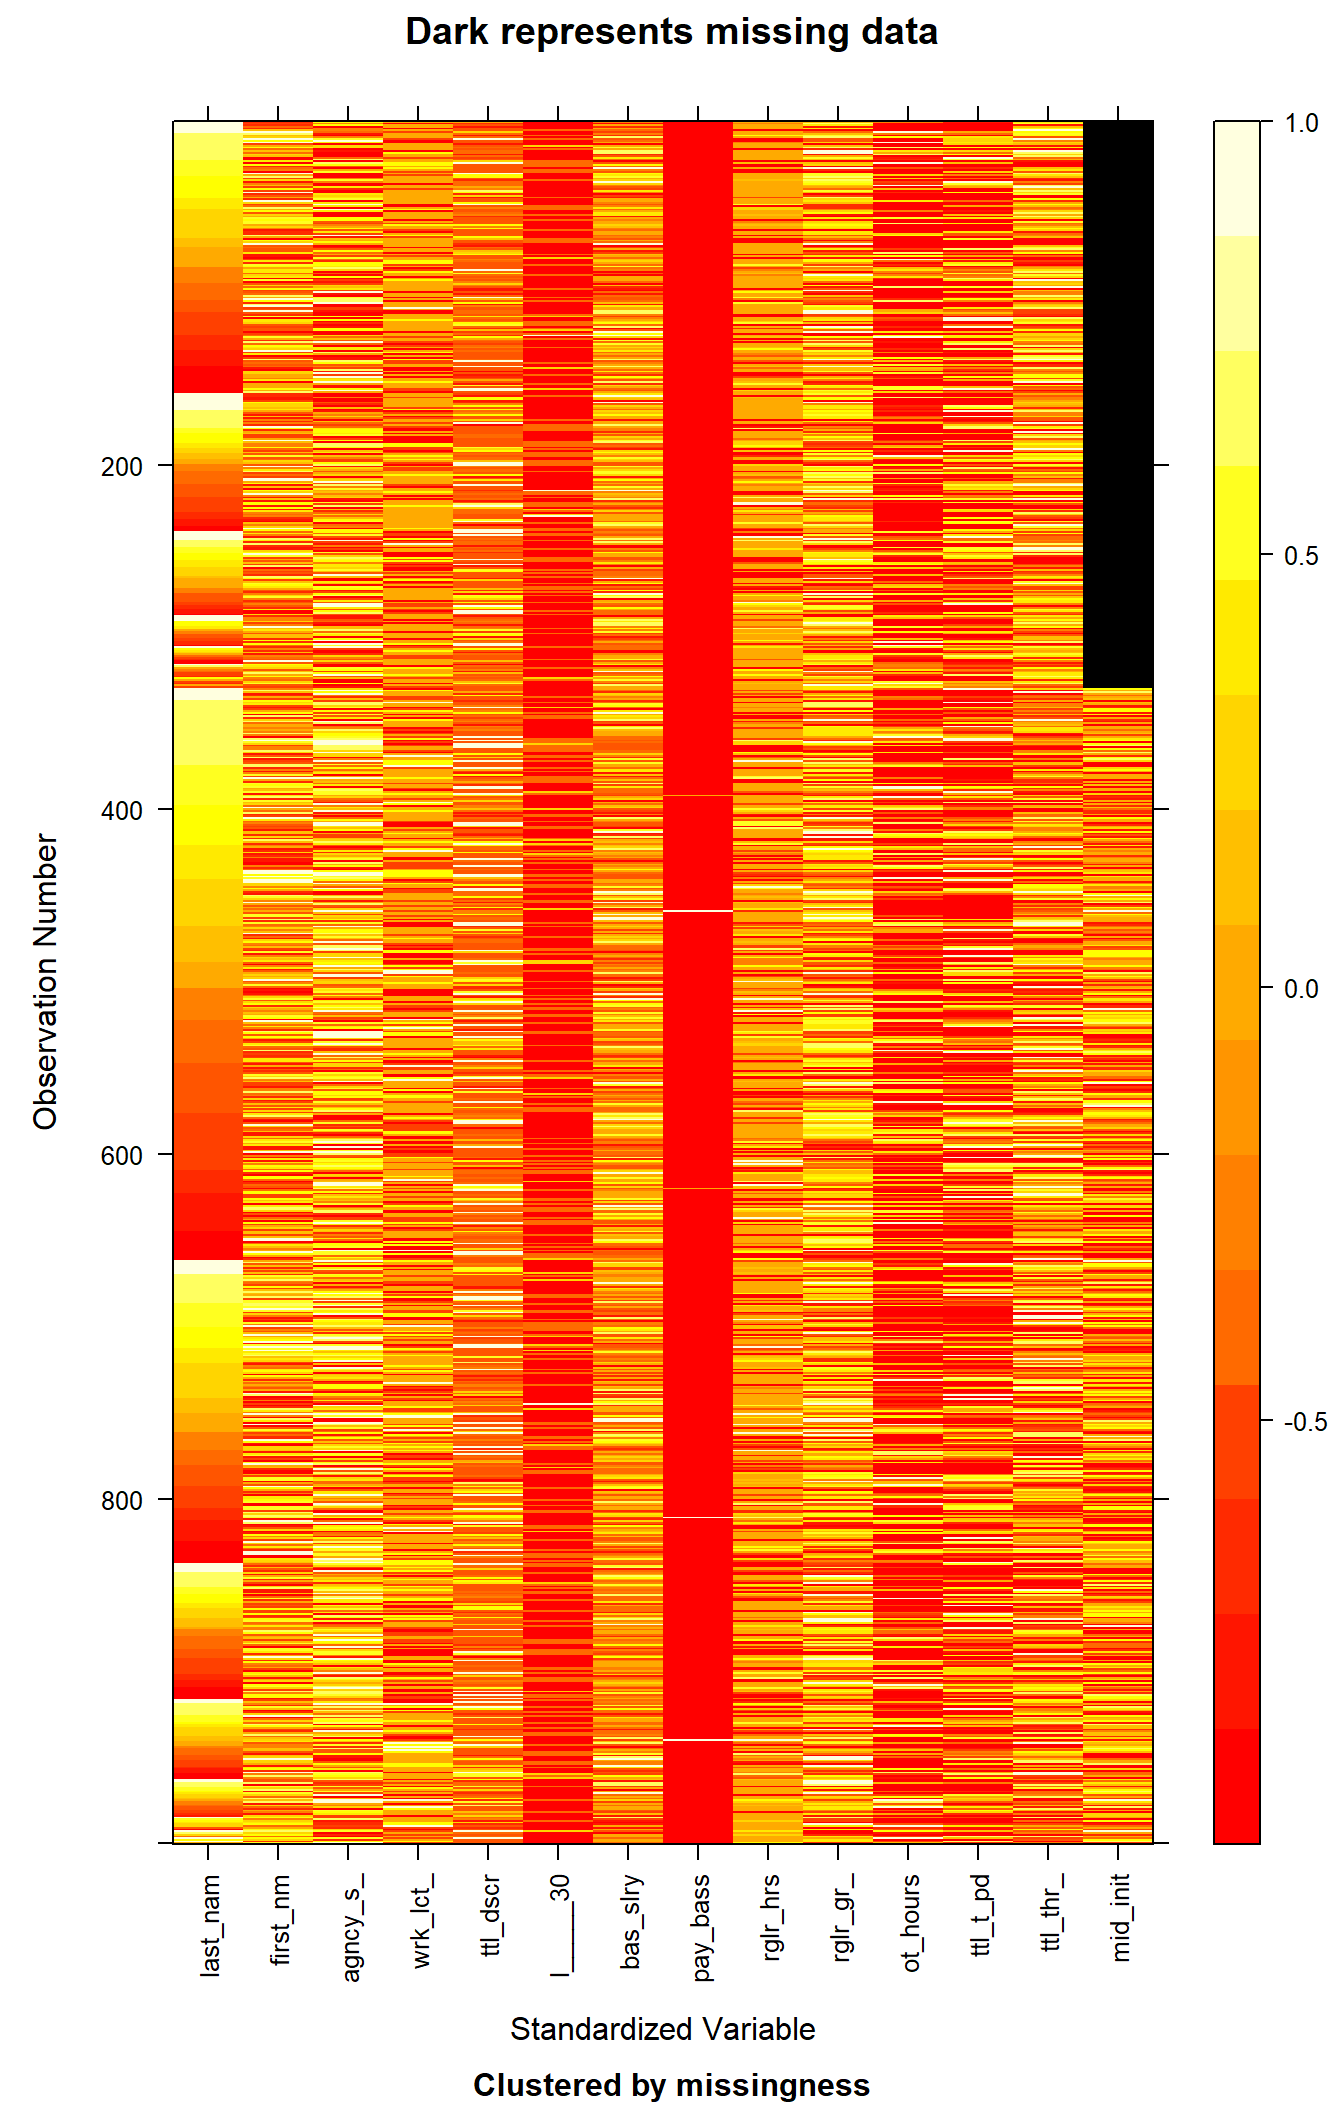
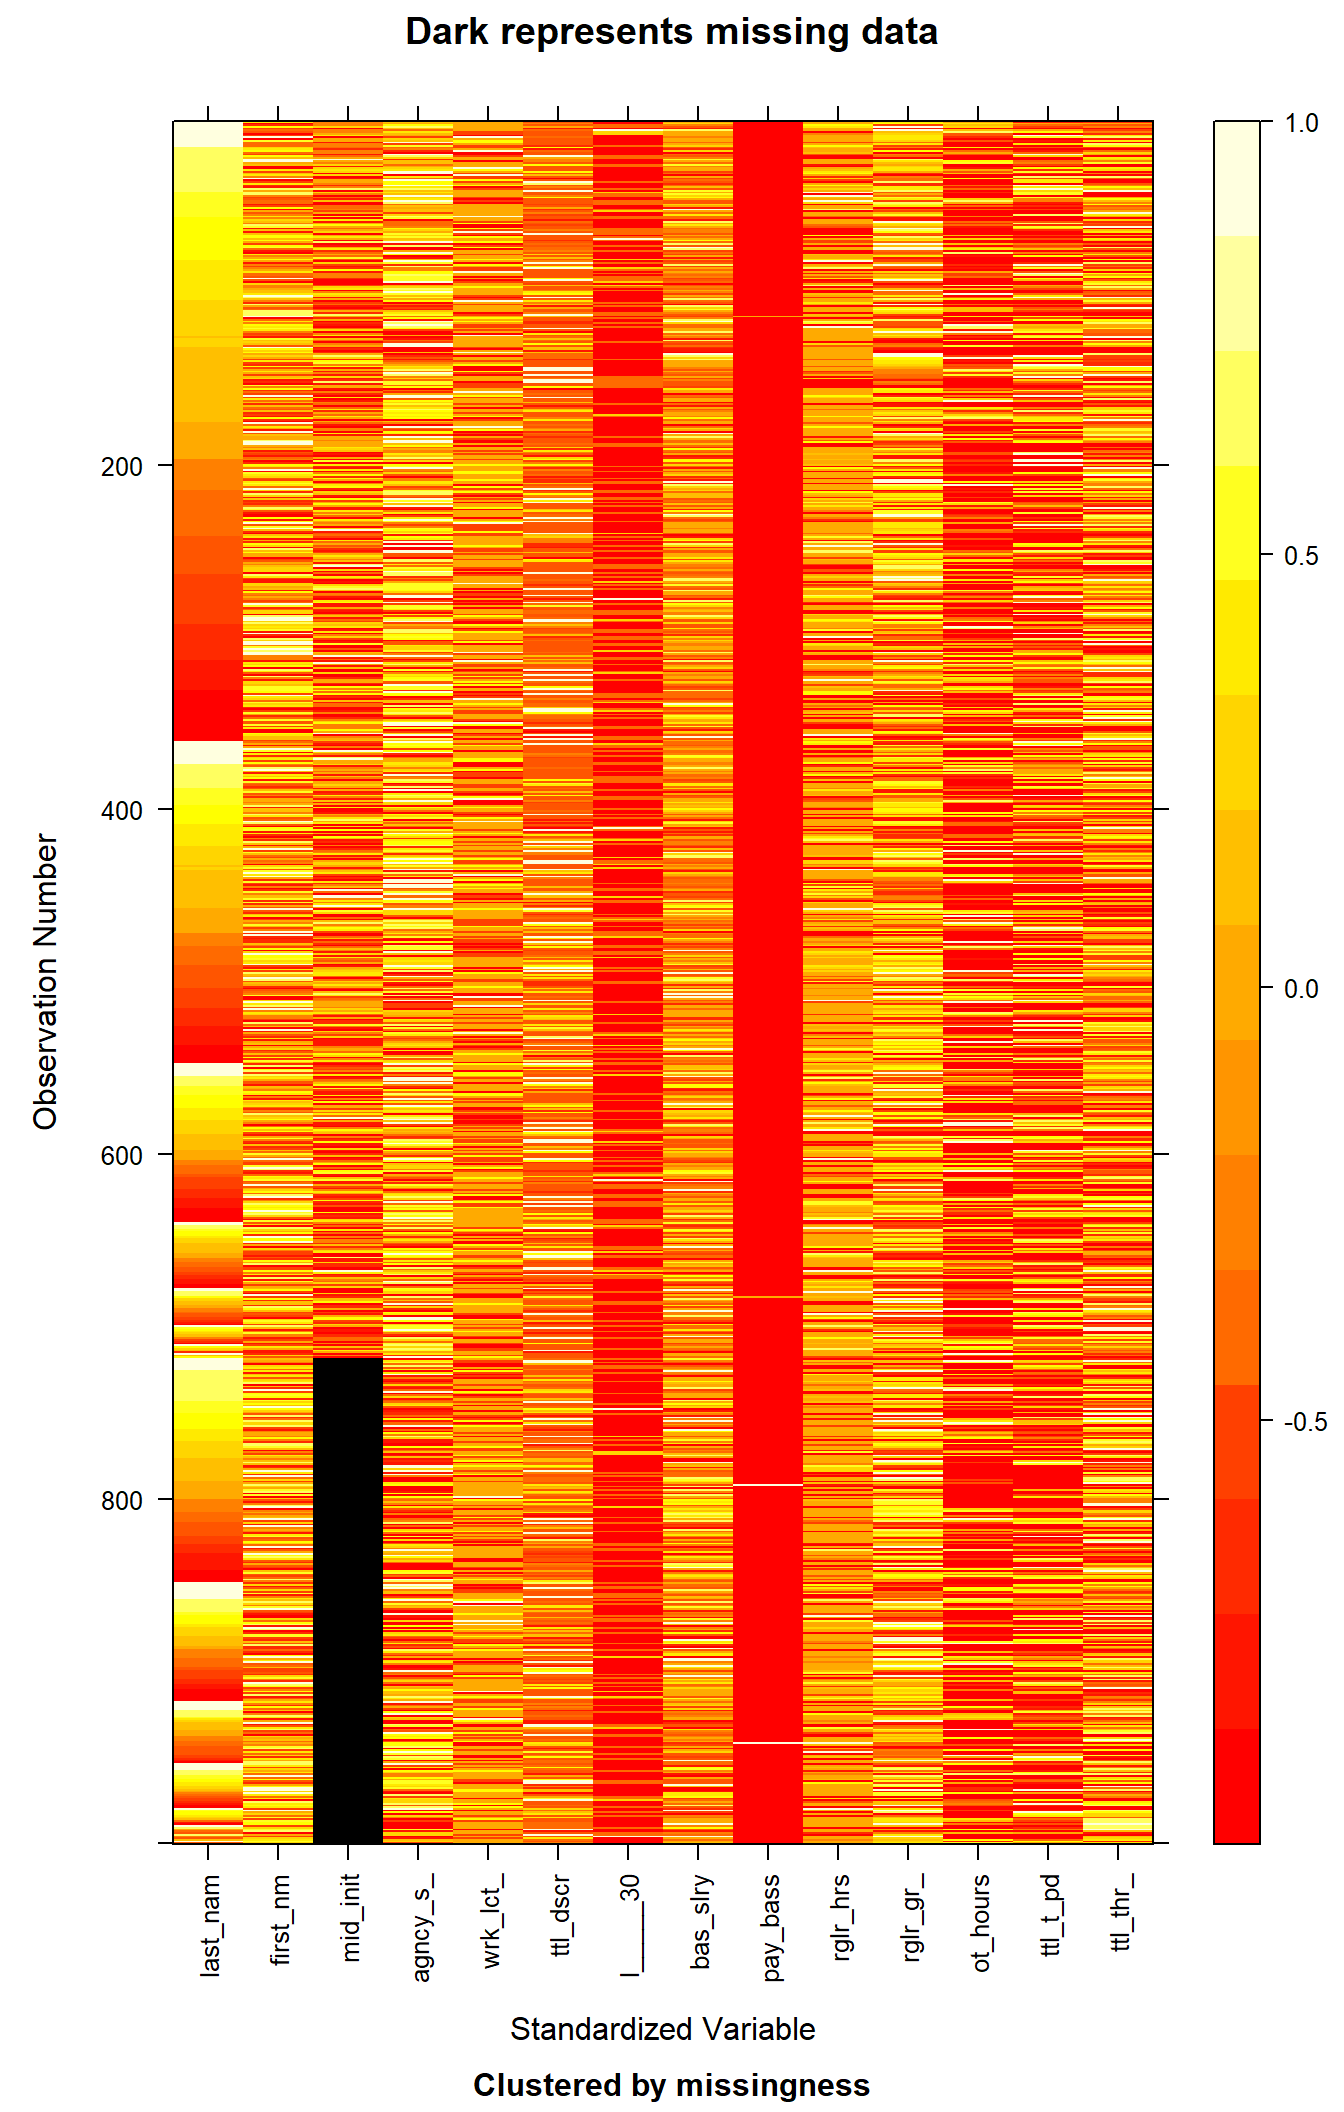
description updated

diff --git a/docs/data.html b/docs/data.html
@@ -232,34 +232,34 @@ pre > code.sourceCode > span > a:first-child::before { text-decoration: underlin
 <span id="cb2-8"><a href="#cb2-8" aria-hidden="true" tabindex="-1"></a><span class="fu">print</span>(<span class="fu">head</span>(nyc_payroll_data))</span></code><button title="Copy to Clipboard" class="code-copy-button"><i class="bi"></i></button></pre></div>
 </details>
 <div class="cell-output cell-output-stdout">
-<pre><code>   Fiscal Year Payroll Number                   Agency Name Last Name
-1:        2018            744 DEPT OF ED PARA PROFESSIONALS HERNANDEZ
-2:        2018            463     COMMUNITY COLLEGE (BRONX)  NICHOLAS
-3:        2018            744 DEPT OF ED PARA PROFESSIONALS SCHILLING
-4:        2015             NA      DEPARTMENT OF SANITATION   HANCOCK
-5:        2015             NA        DEPT OF ED PEDAGOGICAL    GOLDEN
-6:        2018            742        DEPT OF ED PEDAGOGICAL     CUFFY
-    First Name Mid Init Agency Start Date Work Location Borough
-1:    PATRICIA        A        05/03/2013             MANHATTAN
-2:      JAMILA                 06/01/2017                 BRONX
-3:       KAREN        A        10/06/2004             MANHATTAN
-4: CHRISTOPHER        M        04/03/2000             MANHATTAN
-5:     SUZANNE        D        10/06/1986                 OTHER
-6:    LAURELLE        V        09/02/1997             MANHATTAN
+<pre><code>   Fiscal Year Payroll Number                    Agency Name Last Name
+1:        2021            742         DEPT OF ED PEDAGOGICAL     MOREL
+2:        2014            742         DEPT OF ED PEDAGOGICAL     ARATO
+3:        2018            747 DEPT OF ED PER SESSION TEACHER      SHEA
+4:        2016             NA BOARD OF ELECTION POLL WORKERS      BUIE
+5:        2018            742         DEPT OF ED PEDAGOGICAL     MCCOY
+6:        2017             NA DEPT OF ED PER SESSION TEACHER    MATHEW
+   First Name Mid Init Agency Start Date Work Location Borough
+1:      RAMON        O        11/03/2000             MANHATTAN
+2:  CHRISTINE                 12/31/1999                      
+3:     JACLYN        M        09/03/2013             MANHATTAN
+4:      LARRY        J        01/01/2010             MANHATTAN
+5:    SHELLEY                 09/02/2014             MANHATTAN
+6:     SHEENA                 09/08/2009             MANHATTAN
            Title Description Leave Status as of June 30 Base Salary Pay Basis
-1:            ANNUAL ED PARA                     ACTIVE     38914.0 per Annum
-2:         COLLEGE ASSISTANT                     ACTIVE        14.6  per Hour
-3:            ANNUAL ED PARA                     ACTIVE     35977.0 per Annum
-4:    GENERAL SUPERINTENDENT                     ACTIVE    135177.0 per Annum
-5:                   TEACHER                     ACTIVE    102043.0 per Annum
-6: TEACHER SPECIAL EDUCATION                     ACTIVE    110163.0 per Annum
+1: TEACHER SPECIAL EDUCATION                     ACTIVE   111350.00 per Annum
+2:          SCHOOL SECRETARY                     ACTIVE    49211.00 per Annum
+3:      TEACHER- PER SESSION                     ACTIVE       33.18   per Day
+4:           ELECTION WORKER                     ACTIVE        1.00  per Hour
+5: TEACHER SPECIAL EDUCATION                     ACTIVE    75868.00 per Annum
+6:      TEACHER- PER SESSION                     ACTIVE       33.18   per Day
    Regular Hours Regular Gross Paid OT Hours Total OT Paid Total Other Pay
-1:          0.00           43818.34        0          0.00            0.00
-2:        253.00            4307.00        0          0.00            0.00
-3:          0.00           39138.10        0        199.29            0.00
-4:       2085.72          136789.56        0          0.00         5978.28
-5:          0.00          100883.92        0          0.00            0.00
-6:          0.00          105024.56        0          0.00            0.00</code></pre>
+1:             0          108511.56        0             0         5821.24
+2:             0           49211.04        0             0         1000.00
+3:             0            1181.32        0             0            3.42
+4:             0             300.00        0             0            0.00
+5:             0           71653.99        0             0            0.00
+6:             0            2125.57        0             0            0.12</code></pre>
 </div>
 </div>
 <div class="cell">
@@ -271,7 +271,7 @@ pre > code.sourceCode > span > a:first-child::before { text-decoration: underlin
 <pre><code>[1] 10000    17</code></pre>
 </div>
 </div>
-<p>The data consists of 5.66 million rows (essentially 5.66 million municipal employees) and 17 columns. Every row basically tells us about the employee salary, their work location, agency, base pay, overtime (if any), etc. However, the data size is too large for us to handle hence we random sample our data to the size of 10000 samples.</p>
+<p>The data consists of 5.66 million rows (essentially 5.66 million municipal employees) and 17 columns. Every row basically tells us about the employee salary, their work location, agency, base pay, overtime (if any), etc. However, the data size is too large for efficient processing hence we random sample our data to the size of 10000 samples for our study.</p>
 <div class="cell">
 <details>
 <summary>Code</summary>
@@ -363,7 +363,7 @@ pre > code.sourceCode > span > a:first-child::before { text-decoration: underlin
 </details>
 <div class="cell-output cell-output-stdout">
 <pre><code>            Payroll Number                Fiscal Year 
-                      3067                          0 
+                      3055                          0 
                Agency Name                  Last Name 
                          0                          0 
                 First Name                   Mid Init 
@@ -417,10 +417,12 @@ pre > code.sourceCode > span > a:first-child::before { text-decoration: underlin
 changing to NA</code></pre>
 </div>
 <div class="cell-output cell-output-stdout">
-<pre><code>NOTE: The following pairs of variables appear to have the same missingness pattern.
+<pre><code>NOTE: In the following pairs of variables, the missingness pattern of the first is a subset of the second.
  Please verify whether they are in fact logically distinct variables.
-     [,1]        [,2]        
-[1,] "Last Name" "First Name"</code></pre>
+     [,1]         [,2]        
+[1,] "Last Name"  "First Name"
+[2,] "Last Name"  "Mid Init"  
+[3,] "First Name" "Mid Init"  </code></pre>
 </div>
 <div class="cell-output-display">
 <p><img src="data_files/figure-html/unnamed-chunk-7-1.png" class="img-fluid" width="672"></p>
